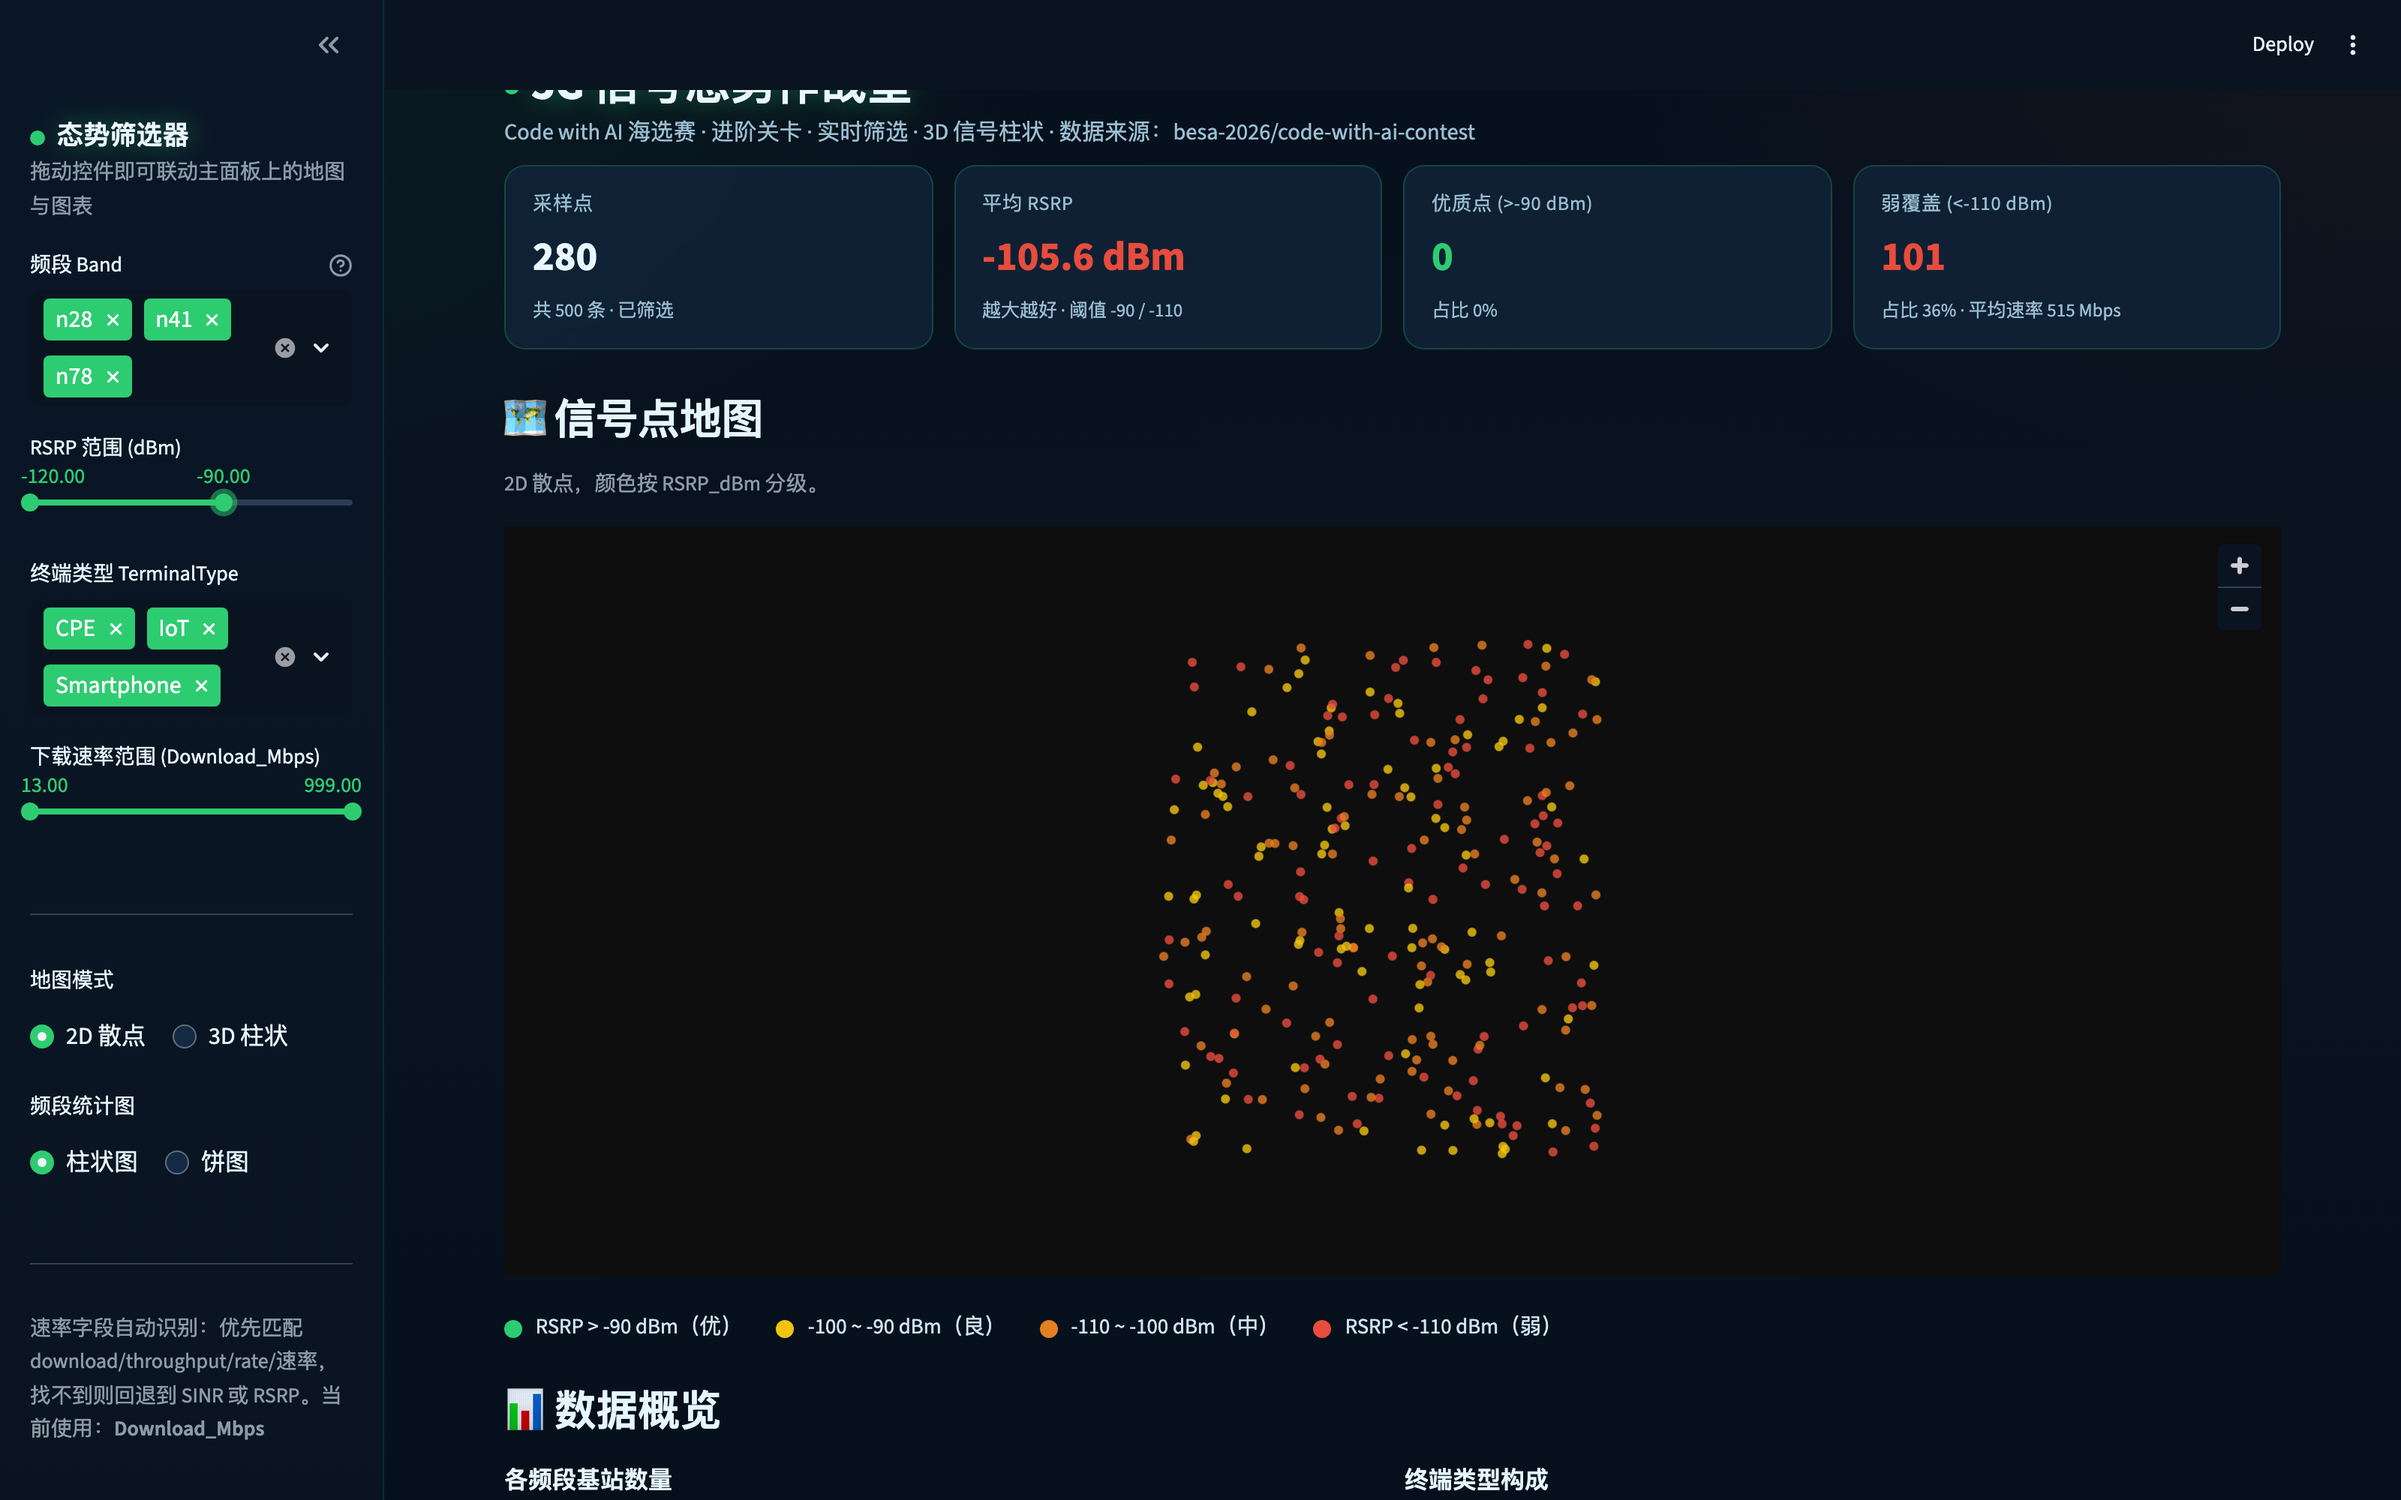
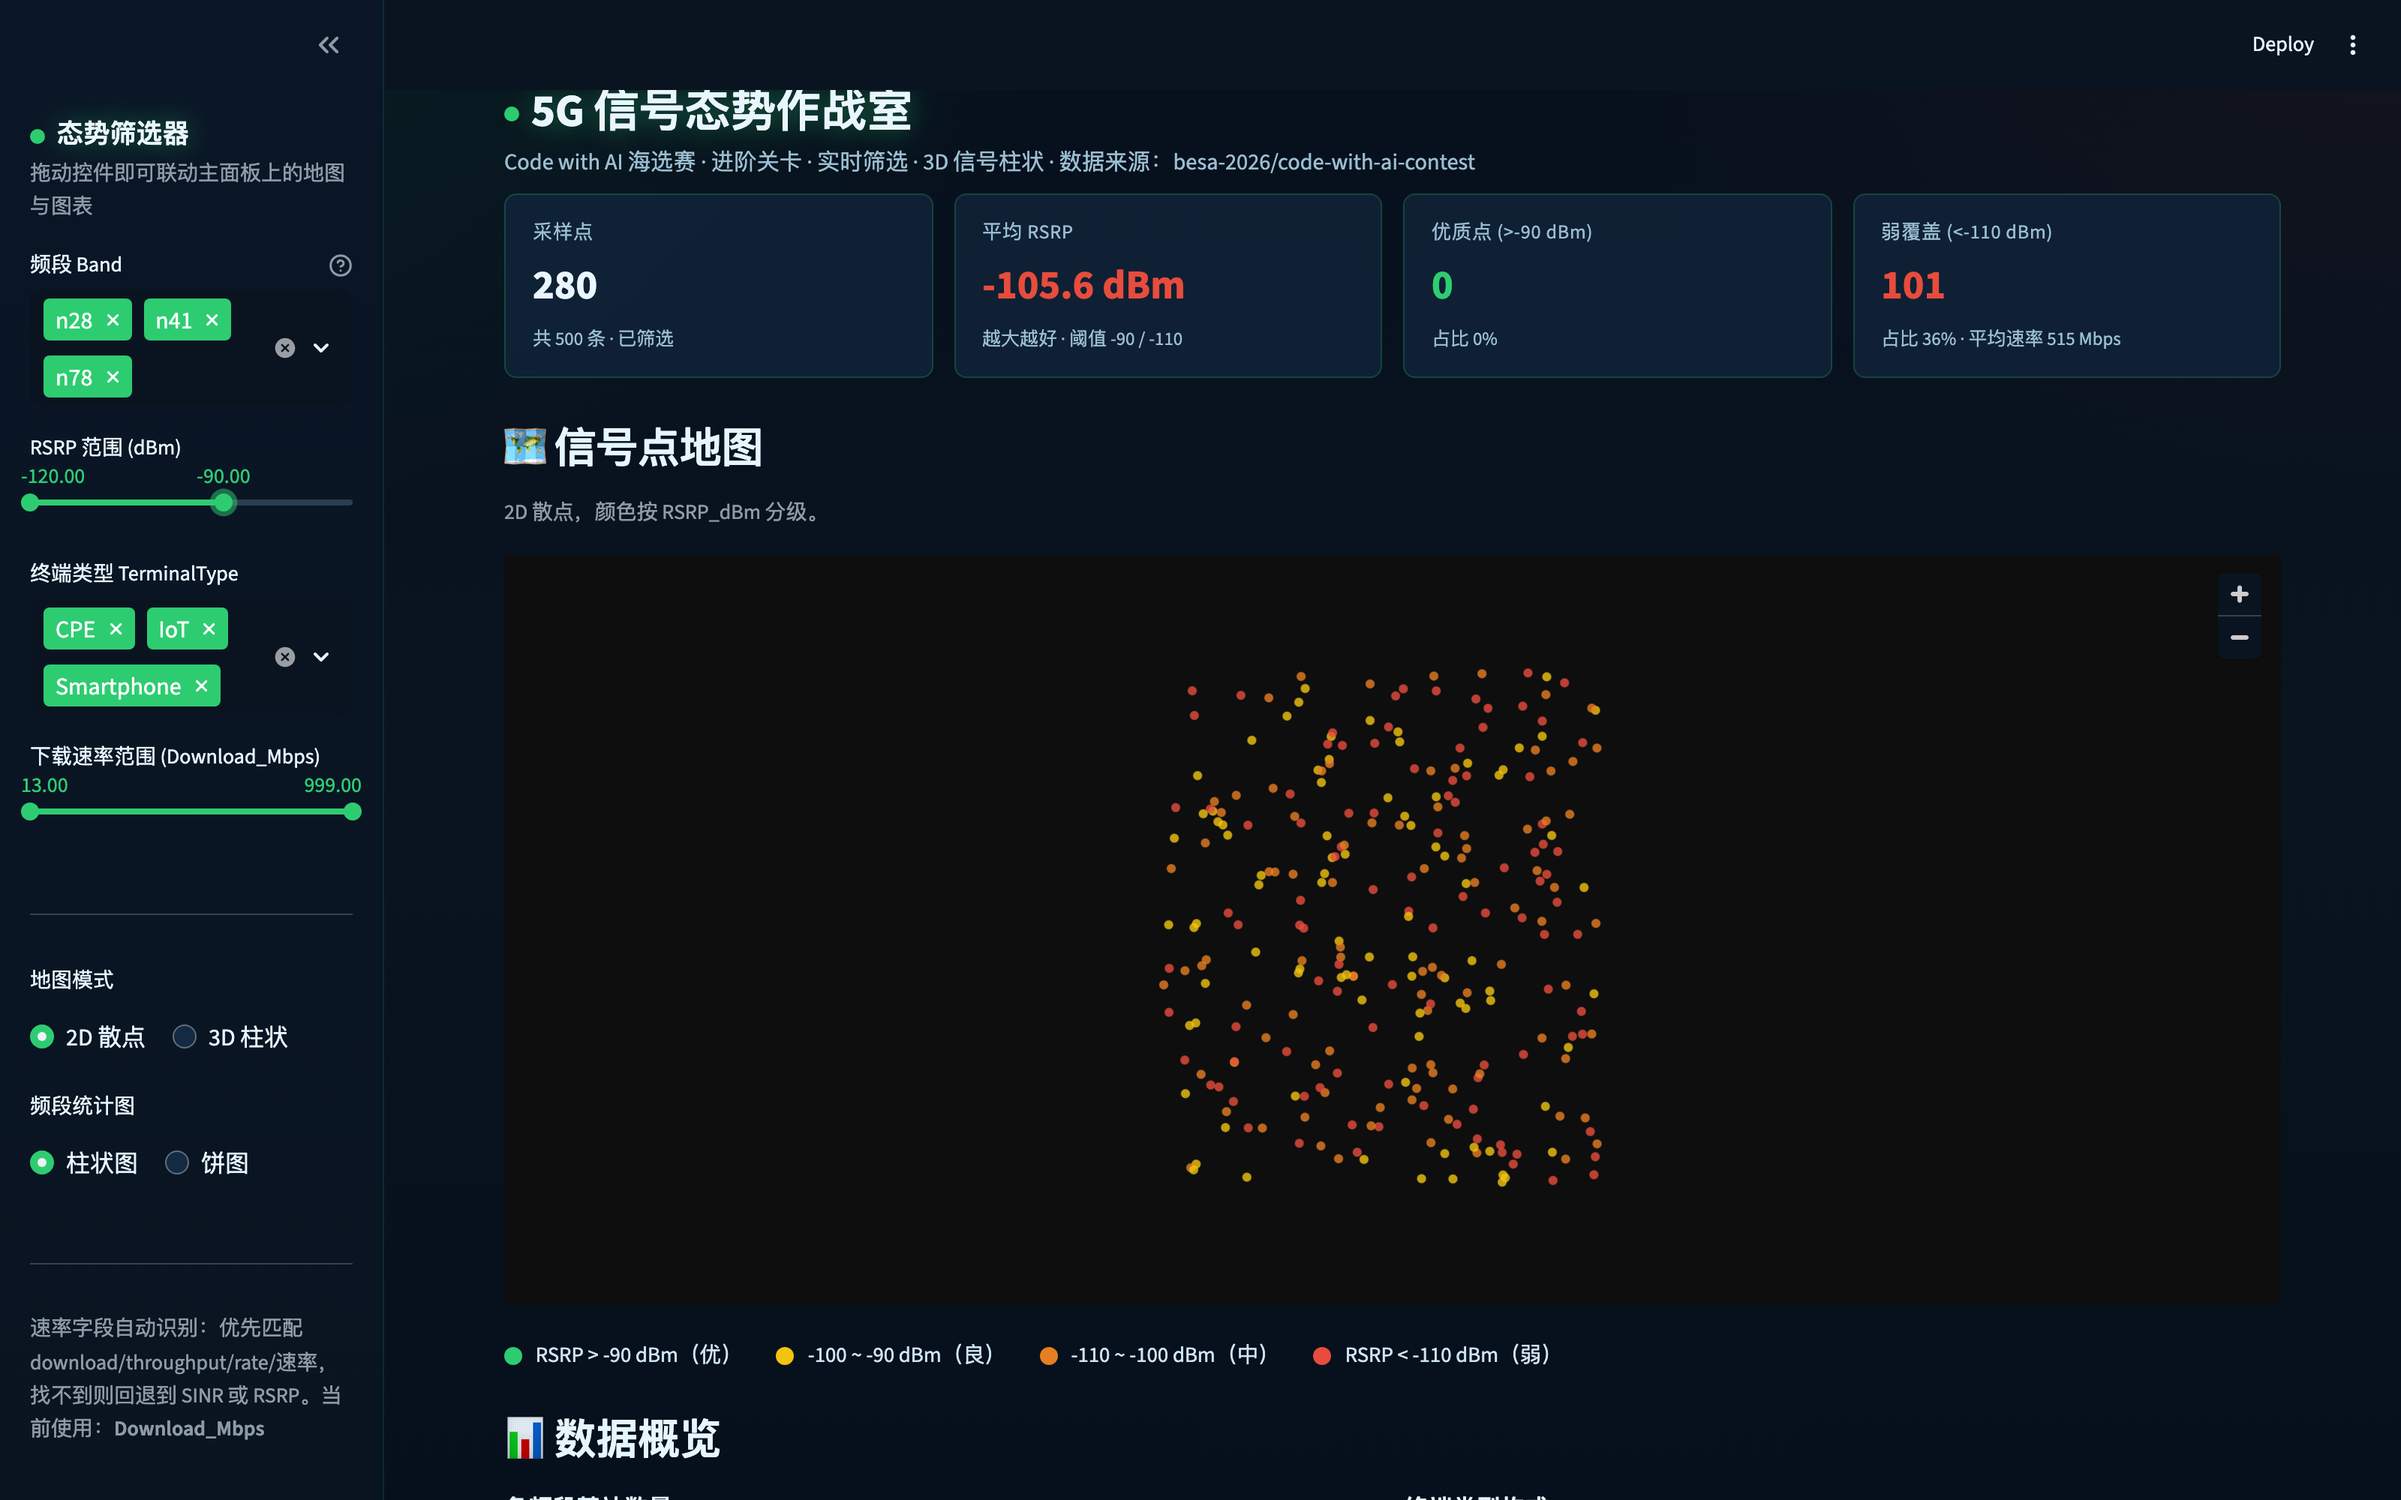
docs: add Codex QA log and localhost guidance

diff --git a/app.py b/app.py
@@ -70,15 +70,16 @@ st.markdown(
           radial-gradient(1000px 600px at 100% 0%, rgba(231,76,60,0.06), transparent 55%),
           linear-gradient(180deg, #06101c 0%, #0a1421 50%, #06101c 100%);
       }
-      .block-container { padding-top: 1.0rem; padding-bottom: 2rem; }
+      .block-container { padding-top: 2.2rem; padding-bottom: 2rem; }
       h1, h2, h3 { color: #eaf6ff; letter-spacing: 0.5px; }
       .nav-title {
         font-size: 1.9rem; font-weight: 700; color: #eaf6ff;
+        line-height: 1.35; padding-top: 0.15rem; margin-bottom: 0.15rem;
         text-shadow: 0 0 18px rgba(46, 204, 113, 0.45);
         animation: fadeInDown 0.7s ease-out both;
       }
       .nav-sub  {
-        color: #9bbed1; font-size: 0.95rem; margin-top: -0.3rem;
+        color: #9bbed1; font-size: 0.95rem; line-height: 1.45; margin-top: 0;
         animation: fadeInDown 0.9s ease-out both;
       }
       .pulse-dot {
@@ -95,7 +96,7 @@ st.markdown(
       .kpi-card {
         background: var(--panel-bg);
         border: 1px solid var(--panel-border);
-        border-radius: 14px;
+        border-radius: 8px;
         padding: 14px 18px;
         backdrop-filter: blur(6px);
         animation: fadeInUp 0.6s ease-out both;
@@ -123,7 +124,7 @@ st.markdown(
       .stTabs [data-baseweb="tab-list"] { gap: 6px; }
       .stTabs [data-baseweb="tab"] {
         background: rgba(17, 36, 58, 0.5);
-        border-radius: 10px 10px 0 0;
+        border-radius: 8px 8px 0 0;
         padding: 8px 16px;
       }
       .stTabs [aria-selected="true"] {
@@ -142,6 +143,13 @@ st.markdown(
       @keyframes fadeInUp {
         from { opacity: 0; transform: translateY(8px); }
         to   { opacity: 1; transform: translateY(0); }
+      }
+      @media (max-width: 1100px) {
+        .kpi-grid { grid-template-columns: repeat(2, minmax(0, 1fr)); }
+      }
+      @media (max-width: 700px) {
+        .kpi-grid { grid-template-columns: 1fr; }
+        .nav-title { font-size: 1.45rem; }
       }
     </style>
     """,

diff --git a/scripts/take_screenshots.py b/scripts/take_screenshots.py
@@ -1,7 +1,8 @@
 """Render dashboard screenshots via headless Chromium (Playwright).
 
 This is a one-shot helper -- it expects a Streamlit dev server to be
-already running on ``http://localhost:8765``. Outputs land in
+already running on ``http://localhost:8765`` by default. Override with
+``DASHBOARD_URL`` when using another port. Outputs land in
 ``docs/screenshots/``. Three captures by default:
 
 1. ``01_overview_3d.png`` -- default 3D pillar view at full window.
@@ -13,6 +14,7 @@ already running on ``http://localhost:8765``. Outputs land in
 from __future__ import annotations
 
 import sys
+import os
 from pathlib import Path
 
 from playwright.sync_api import sync_playwright
@@ -21,7 +23,7 @@ ROOT = Path(__file__).resolve().parent.parent
 OUT_DIR = ROOT / "docs" / "screenshots"
 OUT_DIR.mkdir(parents=True, exist_ok=True)
 
-URL = "http://localhost:8765/"
+URL = os.environ.get("DASHBOARD_URL", "http://localhost:8765/")
 VIEWPORT = {"width": 1600, "height": 1000}
 
 
@@ -35,7 +37,9 @@ def main() -> int:
         ctx = browser.new_context(viewport=VIEWPORT, device_scale_factor=2)
         page = ctx.new_page()
 
-        page.goto(URL, wait_until="networkidle", timeout=30000)
+        # Streamlit keeps websocket/runtime requests open, so ``networkidle``
+        # can be flaky. DOM ready plus the dashboard title is the stable signal.
+        page.goto(URL, wait_until="domcontentloaded", timeout=30000)
         _wait_for_streamlit(page, "5G 信号态势作战室")
         # Give pydeck's ColumnLayer a moment to finish WebGL init.
         page.wait_for_timeout(3500)

diff --git a/AI_PROMPTS.md b/AI_PROMPTS.md
@@ -9,6 +9,105 @@
 
 ---
 
+## 0. Codex 监督 / 调度日志（用户 ↔ Codex）
+
+本节由 Codex 在 Claude Code 完成主体构建后追加，记录 Codex 作为总调度与验收者的真实交互过程。
+
+### 0.1 用户原始目标
+
+用户要求 Codex 按既有工作流推进「Code with AI 海选赛 · 5G 信号可视化看板挑战」：
+
+- 使用可见的 Claude Code 终端执行主要工程实现，不使用后台 `claude -p`。
+- 在 `/Users/skylake/Desktop/AI-Match` 中完成 Streamlit 看板、截图、测试、README、AI_PROMPTS 和 GitHub 公开仓库。
+- 完成基础与进阶关卡，并按比赛要求推送 `base-done` / `basic-done` / `advanced-done` 标签。
+- Codex 负责监督、审查、验收和最终交付；非紧急情况不中断 Claude。
+
+### 0.2 Codex 定位并派工给可见 Claude Code
+
+Codex 按用户的 Claude 调度规则执行了以下只读定位步骤：
+
+```bash
+ps -axo pid,ppid,stat,etime,command | rg 'claude --dangerously-skip-permissions|claude($| )'
+ps -p 31401 -o pid,ppid,tty,stat,etime,command
+lsof -a -p 31401 -d cwd
+osascript -e 'tell application "Terminal" to get the tty of every tab of every window'
+```
+
+确认目标会话为：
+
+- PID：`31401`
+- TTY：`/dev/ttys004`
+- 工作目录：`/Users/skylake/Desktop/AI-Match`
+- Terminal：`window 1 / tab 1`
+- 标题：Claude Code
+
+随后 Codex 用 Terminal AppleScript 的 `do script ... in tab 1 of window 1` 把完整比赛任务书发送给该 Claude Code 会话，并在没有进入执行状态时补发一次 Return。成功信号是 Claude Code 进入 `Thinking / tool call` 状态。
+
+### 0.3 过程中的用户补充要求
+
+用户在 Claude 工作期间追加了三条要求，Codex 均记录并纳入最终验收：
+
+1. 「不需要，你等待claude工作吧，不要过份干预」
+   - Codex 改为低频观察，只在 Claude 完成关键阶段后读取状态，不再追加实现指令。
+
+2. 「后面的验收也是需要你去打开浏览器查看的哈，不要忘记了」
+   - Codex 将浏览器真实验收加入最终检查项：本地启动 Streamlit，打开浏览器观察页面，而不是只信任测试或截图。
+
+3. 「AI_PROMPT.md文件在他写完以后你也要继续写入你的，把我们的对话记录加在上面」
+   - Claude 写完本文件后，Codex 追加本节，记录 Codex 的派工、等待、监督、浏览器验收计划和最终启动说明。
+
+4. 「你需要告诉我怎么启动这个项目，我也需要自己去浏览器打开运行查看效果」
+   - Codex 将启动方式写入最终交付说明：`cd /Users/skylake/Desktop/AI-Match && streamlit run app.py`，浏览器访问 `http://localhost:8501`。
+
+### 0.4 Codex 监督节点摘要
+
+Codex 在不干扰 Claude 主流程的前提下观察到以下关键节点：
+
+- Claude 成功拉取比赛数据，并识别 CSV 含 `Download_Mbps` 字段。
+- Claude 先完成基础版提交，打 `base-done` 和 `basic-done` 两个兼容标签。
+- Claude 完成进阶版：sidebar 联动筛选、3D 柱状地图、KPI、图表切换、CSS 动效、测试模块。
+- Claude 执行 `pytest`，结果为 `32 passed`。
+- Claude 启动 Streamlit，`/_stcore/health` 返回 HTTP 200。
+- Claude 生成 3 张运行截图到 `docs/screenshots/`。
+- Claude 新建公开仓库 `jixuan-skylake/code-with-ai-5g-dashboard`，推送 `main` 和全部比赛标签。
+
+### 0.5 Codex 后续验收计划
+
+Claude 完成后，Codex 继续执行以下独立验收，不把 Claude 的完成报告直接当作最终结论：
+
+- 复查 `git status`、remote、提交和 tag。
+- 追加本 Codex 监督日志并单独提交到 `main`，不移动已经用于比赛计时的 `advanced-done` tag。
+- 本地重新运行 `pytest`。
+- 本地启动 `streamlit run app.py`。
+- 通过浏览器打开本地页面，检查 sidebar、KPI、3D 地图、图表和交互筛选是否可见可用。
+- 把启动命令和仓库地址在最终回复中明确给用户。
+
+### 0.6 本地访问问题排查
+
+用户反馈浏览器里 `localhost` 显示「无法访问此网站」。Codex 排查后确认：
+
+- 当时没有任何 `streamlit run app.py` 进程在运行。
+- `8501` 和 `8765` 端口都没有监听者。
+- 日志中的 `Stopping...` 来自验收脚本结束时主动停止临时 Streamlit 服务。
+
+Codex 随后在一个新的可见 Terminal 窗口中启动：
+
+```bash
+cd /Users/skylake/Desktop/AI-Match
+export PATH="$HOME/Library/Python/3.9/bin:$PATH"
+streamlit run app.py --server.port 8501 --server.address 127.0.0.1 --browser.gatherUsageStats false
+```
+
+验证结果：
+
+- `curl http://127.0.0.1:8501/_stcore/health` 返回 HTTP 200。
+- `lsof` 显示 Python 正在监听 `127.0.0.1:8501`。
+- 使用 `DASHBOARD_URL=http://127.0.0.1:8501/ python3 scripts/take_screenshots.py` 成功重新生成 3 张截图。
+
+最终给用户的本机访问地址为：`http://127.0.0.1:8501`。
+
+---
+
 ## 1. 任务派工：用户 → Claude Code
 
 时间：2026-05-08 · 工作目录：`/Users/skylake/Desktop/AI-Match`

diff --git a/README.md b/README.md
@@ -53,11 +53,15 @@
 pip install -r requirements.txt
 
 # 2. 一键启动
-streamlit run app.py
+streamlit run app.py --server.address 127.0.0.1
 ```
 
-打开浏览器访问 `http://localhost:8501`（或 Streamlit 控制台输出的端口），
+打开浏览器访问 `http://127.0.0.1:8501`（或 Streamlit 控制台输出的端口），
 即可看到态势作战室主页。
+
+如果 `http://localhost:8501` 显示「无法访问此网站」，请直接使用
+`http://127.0.0.1:8501`。少数本机代理 / DNS 工具会改写 `localhost`，
+而 `127.0.0.1` 会直连本机回环地址。
 
 > 💡 主题已在 `.streamlit/config.toml` 内置为 dark；如果你的 Streamlit
 > 版本默认浅色，请确保不要把它覆盖回 light。
@@ -136,6 +140,12 @@ AI-Match/
 > 已知运行时小提示：截图时机器无外网访问 Carto CDN，因此底图瓦片未加载；
 > 信号点颜色与柱高均按代码逻辑正确渲染。在能访问外网的环境运行时，会
 > 自动出现深色街道底图。
+
+如需按默认 8501 端口重新生成截图：
+
+```bash
+DASHBOARD_URL=http://127.0.0.1:8501/ python3 scripts/take_screenshots.py
+```
 
 ---
 
